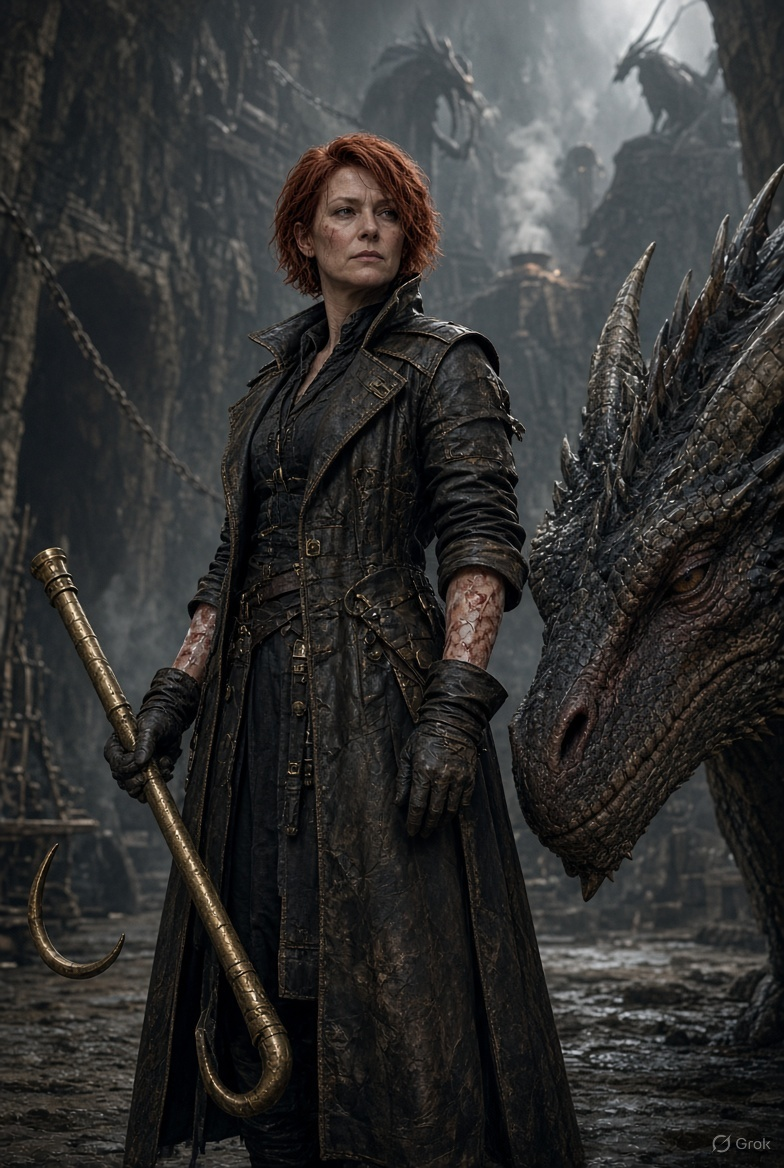
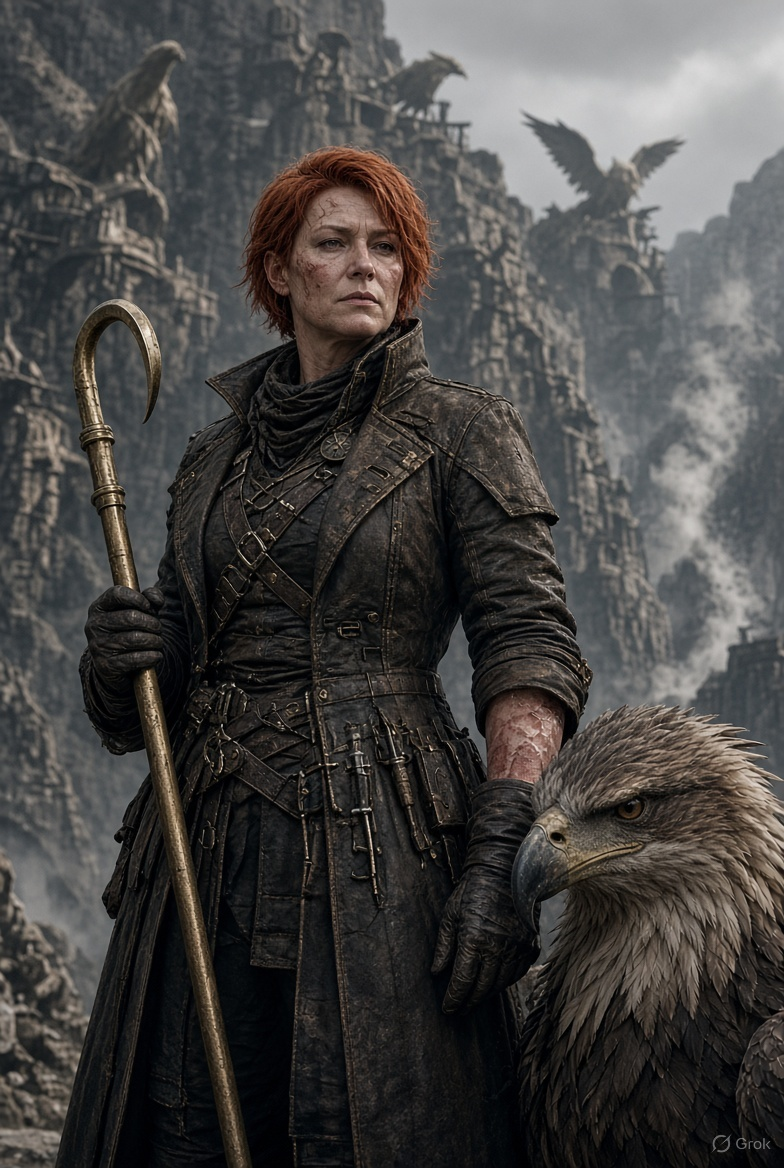
Griffins, great eagles and drakes; Zephyros the only dragon
- Stormriders are a War Griffin Corps: Skyperch Griffin Aeries, Storm Elf
  Quarters, Strike Ledge, Great Eagle Roosts, Griffin-Plate Forge; no
  Stormrider dragons except Zephyros (chapters 7–8)
- Dara Stenn's Velthor is a war griffin; Ysmay Aerie-Warden; Tessa, Lev
  Cray, Aurelia, Iskar and Skyperch Landing updated
- Drakes are wyverns, kept and trained at Vaelmark; Pyrewing an epic-tier
  dragon × wyvern hybrid (wiki and unit wiki)
- Creature anatomy spelled out in portrait and place prompts
- Portraits: Dara Stenn and Ysmay Kettlewing redone with griffins; Hrolf
  Anvilheart, Ottar Deepbar, Pip Harrowsaddle, Sten Coldhearth

diff --git a/starhaven_wiki.html b/starhaven_wiki.html
@@ -2065,7 +2065,7 @@ const CHARACTERS = [
     relationships:[{name:'Liora Drake',type:'Late Partner',note:'His late wife. Her shard survey became his life work.'},{name:'Elysia Nocturne',type:'rival'},{name:'Rayden Cale',type:'ally'}],
     tags:['Founder','Pillar of the Mind','Grand Arcanist'],
   background:'Drakari — draconic bloodline. Founded the Starhaven Athenaeum in Year 1043, then co-founded the Veilborn Arcanum in Year 1046. Discovered the 47-Void-Shard continental array pattern on Day 63 of his research, writing in his notes: \'The Pattern Is Complete. Something Is Coming.\' First mage in recorded history to invert gravity inside an S+ dungeon chamber.',
-    mount:{name:'Pyrewing',desc:'Volcanic Black Drake — 40-foot wingspan, obsidian-black scales, lava-vein markings. Elite drake, centuries old. The two communicate without spoken language.'},
+    mount:{name:'Pyrewing',desc:'Epic-tier hybrid of a fire-spitting dragon and a wyvern (drake) — 40-foot wingspan, obsidian-black scales with lava veins, blue dragonfire. Centuries old; the bond needs no words.'},
     partner:{name:'Liora Drake',relation:'Late wife (died Year 1042)',desc:'Star-cartographer and arcanist. Her unfinished shard survey became the first page of his. He founded the Athenaeum the year after she died, and its observatory dome carries her name.'},
     achievements:['Founded the Starhaven Athenaeum — primary knowledge institution of the kingdom',
       'Co-founded the Veilborn Arcanum',
@@ -2201,7 +2201,7 @@ const CHARACTERS = [
     bio:"The youngest of the Eleven in Year 1047 by significant margin. Storm-touched blue-grey eyes that shift in bright light. Wind-managed hair — perpetually windswept even indoors. Storm Rider Plate, weather-worn.",
     relationships:[{name:'Iskar Valanthe',type:'partner',note:'Dating. Lost a sky race to her and never left Highspire.'},{name:'Rayden Cale',type:'ally'},{name:'Thorin Blackroot',type:'ally'}],
     tags:['Founder','Pillar of the Sky','Stormriders'],
-  background:'Tempestian Human with storm affinity. Personally certified every dragon-rider at Highspire before the formation flew. Experienced nerve fatigue from the Five Thrones War that required 8 grounded days — the longest she has been out of the sky since taking command. Proposed the Skyhammer aerial bombardment platform in Year 1045.',
+  background:'Tempestian Human with storm affinity. Personally certified every griffin rider at Highspire before the formation flew. Experienced nerve fatigue from the Five Thrones War that required 8 grounded days — the longest she has been out of the sky since taking command. Proposed the Skyhammer aerial bombardment platform in Year 1045.',
     pet:{name:'Zephyros',desc:'Elder Storm Dragon — several hundred years old, blue-grey-white with storm-threaded scales. Wingspan beyond any living standard drake. The two have been bonded since Aurelia was 14. Zephyros indicated the Skyperch architectural requirements by standing in specific places until someone wrote them down.'},
     partner:{name:'Iskar Valanthe',relation:'Dating',desc:'A Moon Elf glaive-dancer who flew to Highspire to race the Stormriders\' best rider and lost to her by a wing-length. He has been finding reasons to stay ever since. The Stormriders have a betting pool on when she admits it is serious.'},
     achievements:['Day 30 of Five Thrones War — 12 siege engines destroyed in a single sortie, zero Starhaven fatalities',
@@ -4551,21 +4551,21 @@ const CHARACTERS = [
   {
     id:'darastenn', name:'Dara Stenn',
     image:'starhaven_chars_image/darastenn.jpg',
-    title:'The Dragon\'s Left Hand',
+    title:'Aurelia\'s Left Hand',
     category:'Commander', status:'alive',
-    age:'32', race:'Human', role:'Wing-Marshal · Stormrider Dragon Wing Sub-Commander · Aerial Coordination',
+    age:'32', race:'Human', role:'Wing-Marshal · Stormrider Griffin Wing Sub-Commander · Aerial Coordination',
     color:'#85B7EB',
-    weapons:['Stormspear — Stormrider-issue','Velthor\'s Fang — sky lance, dragon-mounted'],
+    weapons:['Stormspear — Stormrider-issue','Velthor\'s Fang — sky lance, griffin-mounted'],
     abilities:[
-      {name:'Wing Formation Command', type:'passive', desc:'Coordinates the 40-dragon formation as Aurelia\'s right-execution arm — translates her strategic vision into specific flight paths, timing, and combat sequencing for the entire dragon wing. The wing moves as one because Dara is the nervous system that carries Aurelia\'s intent.'},
-      {name:'Velthor Dive', type:'active', desc:'Drives her storm drake into a steep diving strike, sky lance leveled, then pulls the wing back into formation behind her.'},
+      {name:'Wing Formation Command', type:'passive', desc:'Coordinates the griffin wing as Aurelia\'s right-execution arm — translates her strategic vision into specific flight paths, timing, and combat sequencing for the entire griffin wing. The wing moves as one because Dara is the nervous system that carries Aurelia\'s intent.'},
+      {name:'Velthor Dive', type:'active', desc:'Drives her war griffin into a steep diving strike, sky lance leveled, then pulls the wing back into formation behind her.'},
     ],
     quote:'"The formation is Aurelia\'s mind. I just make sure every dragon reads it the same way."',
-    bio:'The only Stormrider who has never been impressed by Zephyros. Not disrespectful — she has simply ridden Velthor for five years and has a working relationship with an elder dragon of her own. She understands what it means. It does not require performance. Loyalty: The Stormriders are the most effective aerial force in the world because she makes Aurelia\'s vision executable.',
+    bio:'The only Stormrider who has never been impressed by Zephyros. Not disrespectful — she has simply ridden Velthor for five years and has a working relationship with a war griffin of her own. She understands what it means. It does not require performance. Loyalty: The Stormriders are the most effective aerial force in the world because she makes Aurelia\'s vision executable.',
     relationships:[{name:'Aurelia Vex',type:'ally',note:'Her commander — she translates Aurelia\'s vision into formation execution'},{name:'Lev Cray',type:'ally',note:'Her Storm-Captain — storm-mage flier sub-commander'}],
     tags:['Commander','Starhaven Royal & Military','Wing-Marshal'],
-    background:'Rose through the Stormriders in four years. Bonded with Velthor in Year 1047. Aurelia appointed her Wing-Marshal in Year 1049 after the Five Thrones War, specifically because of her formation execution during the Day 30 engagement. Rank: Wing-Marshal · Stormrider Dragon Wing (40 dragons) · Skyperch based.',
-    mount:'Velthor — mature storm drake (bonded Year 1047)',
+    background:'Rose through the Stormriders in four years. Bonded with Velthor in Year 1047. Aurelia appointed her Wing-Marshal in Year 1049 after the Five Thrones War, specifically because of her formation execution during the Day 30 engagement. Rank: Wing-Marshal · Stormrider Griffin Wing · Skyperch based.',
+    mount:'Velthor — a storm-grey war griffin (bonded Year 1047)',
     achievements:['Day 30 Five Thrones War formation — executed Aurelia\'s 12-engine strike perfectly','Wing-Marshal appointment Year 1049','Flamecrest Breach integration — dragon wing coordination with hawk-kin maneuver'],
   },
   {
@@ -4581,10 +4581,10 @@ const CHARACTERS = [
       {name:'Storm Affinity', type:'passive', desc:'Partial Tempestian blood — a third of Aurelia\'s range, used with precise economy. Lightning comes to him a little easier than to anyone else.'},
     ],
     quote:'"I\'m not as powerful as Aurelia. I\'ve made sure that doesn\'t matter."',
-    bio:'Partial Tempestian — has Aurelia\'s affinity at roughly one-third the scale. Spent years frustrated by the comparison. Spent the next years building the most effective mid-altitude magical interdiction force in the world. Aurelia has stopped comparing. She started asking his opinion. Loyalty: The Stormriders\'s effectiveness isn\'t just the dragons — it\'s the layer between them and the ground. That\'s his.',
-    relationships:[{name:'Aurelia Vex',type:'ally',note:'She asks his opinion — this is the recognition he wanted'},{name:'Dara Stenn',type:'ally',note:'Wing-Marshal counterpart — dragon and mage coordination'}],
+    bio:'Partial Tempestian — has Aurelia\'s affinity at roughly one-third the scale. Spent years frustrated by the comparison. Spent the next years building the most effective mid-altitude magical interdiction force in the world. Aurelia has stopped comparing. She started asking his opinion. Loyalty: The Stormriders\'s effectiveness isn\'t just the griffins — it\'s the layer between them and the ground. That\'s his.',
+    relationships:[{name:'Aurelia Vex',type:'ally',note:'She asks his opinion — this is the recognition he wanted'},{name:'Dara Stenn',type:'ally',note:'Wing-Marshal counterpart — griffin and mage coordination'}],
     tags:['Commander','Starhaven Royal & Military','Storm-Captain'],
-    background:'Partial Tempestian who built the storm-mage flier corps from concept to operational in Year 1046. Aurelia gave him the posting after he presented her a tactical diagram of the gap between dragon capability and ground force. She hired him on the spot. Rank: Storm-Captain · Stormrider Storm-Mage Fliers (160) · Skyperch based.',
+    background:'Partial Tempestian who built the storm-mage flier corps from concept to operational in Year 1046. Aurelia gave him the posting after he presented her a tactical diagram of the gap between griffin capability and ground force. She hired him on the spot. Rank: Storm-Captain · Stormrider Storm-Mage Fliers (160) · Skyperch based.',
     mount:'Gale-condor — bonded storm-capable aerial mount (not a dragon)',
     achievements:['Storm-mage flier corps — created from zero in Year 1046','Day 30 Five Thrones War — storm-mage interdiction supported Aurelia\'s dragon strike','Gale-condor mount development — non-dragon aerial capability for mage-fliers'],
   },
@@ -5622,7 +5622,7 @@ const CHARACTERS = [
     color:'#85B7EB',
     weapons:['Griffin lance','Storm-blade — mounted cavalry saber'],
     abilities:[
-      {name:'No Dragon Needed', type:'passive', desc:'Aurelia\'s Stormrider washout — failed dragon-bonding trials because no dragon chose her. Founded the Stormwing Brotherhood to prove she didn\'t need one. Aurelia respects her more than most of her own riders. They compete for altitude records. Tessa currently holds the record at 14,000 feet on griffin-back.'},
+      {name:'No Bond Needed', type:'passive', desc:'Aurelia\'s Stormrider washout — failed the griffin-bonding trials because no war griffin chose her. Founded the Stormwing Brotherhood with griffins she trained herself, to prove she did not need to be chosen. Aurelia respects her more than most of her own riders. They compete for altitude records. Tessa currently holds the record at 14,000 feet on griffin-back.'},
       {name:'Griffin Dive', type:'active', desc:'Drops Ironwing from extreme altitude onto an enemy formation, griffin lance first.'},
     ],
     quote:'"No dragon chose us. The sky did not care. Neither did we."',
@@ -6628,7 +6628,7 @@ const CHARACTERS = [
     age:'112 (looks about 25 — young for a Moon Elf)', race:'Moon Elf', role:'Solo Legend · Glaive-Dancer · Griffon Rider',
     color:'#9AB4D8',
     weapons:['Moonreaver — a twin-bladed moon-steel glaive, its blades etched with the phases of the moon that glow faintly at night','Veilmail — a mithril-thread scale coat under a midnight half-cloak'],
-    mount:{name:'Sennet',desc:'A silver-white griffon, the only mount in the realm that keeps pace with Stormrider dragons in a dive.'},
+    mount:{name:'Sennet',desc:'A silver-white griffon, the only mount in the realm that keeps pace with Zephyros in a dive.'},
     abilities:[
       {name:'Crescent Reave', type:'active', desc:'Spins Moonreaver through a full arc in a single step, cutting everything within reach in a silver crescent of light. Used to clip a wyvern\'s wing mid-dive.'},
       {name:'Moonblooded', type:'passive', desc:'Grows faster and harder to hit as night deepens. Under a full moon he has never been touched in a duel.'},
@@ -7980,20 +7980,20 @@ const CHARACTERS = [
   {
     id:'ysmaykettlewing', name:'Ysmay Kettlewing',
     image:'starhaven_chars_image/ysmaykettlewing.jpg',
-    title:'Dragon-Warden',
+    title:'Aerie-Warden',
     category:'Guild & Citizens', status:'alive',
-    age:'48', race:'Human', role:'Dragon-Warden · The Forty Stables · Skyperch',
+    age:'48', race:'Human', role:'Aerie-Warden · The Griffin Aeries & Great Eagle Roosts · Skyperch',
     color:'#7A3A2A',
     weapons:['A long brass dragon-hook','Fire-proof gloves'],
     abilities:[
-      {name:'Calm the Roost', type:'active', desc:'Walks into a roost of forty restless dragons and has them settled in minutes.'},
+      {name:'Calm the Roost', type:'active', desc:'Walks into an aerie of restless war griffins and has them settled in minutes.'},
       {name:'Tolerated', type:'passive', desc:'Zephyros tolerates her. In Skyperch that is the highest honour there is.'},
     ],
     quote:'"They are not pets. They are colleagues."',
     bio:'Strong and scarred, short red hair, burn scars on both forearms, calm grey eyes.',
     relationships:[{name:'Aurelia Vex',type:'ally',note:'Answers only to her'}],
-    tags:['Guild & Citizens','Skyperch','Dragons'],
-    background:'Keeps all forty dragons of Skyperch fed, healthy and calm in the vent-heated stables carved into the mountain.',
+    tags:['Guild & Citizens','Skyperch','Griffins'],
+    background:'Keeps the war griffins and great eagles of Skyperch fed, healthy and calm in the vent-heated aeries carved into the mountain — and is the only keeper Zephyros, the one dragon on the mountain, will let near him.',
   },
   {
     id:'pipharrowsaddle', name:'Pip Harrowsaddle',
@@ -8004,14 +8004,14 @@ const CHARACTERS = [
     color:'#6A5A3A',
     weapons:['A saddler\'s awl and a measuring cord'],
     abilities:[
-      {name:'Custom Fit', type:'active', desc:'Crawls under a dragon\'s wing to measure it and builds a harness that fits like skin.'},
+      {name:'Custom Fit', type:'active', desc:'Crawls under a griffin\'s wing to measure it and builds a harness that fits like skin.'},
       {name:'Never Slipped', type:'passive', desc:'No rider in a Harrowsaddle harness has ever fallen from a strap failure.'},
     ],
     quote:'"Hold still. Both of you."',
     bio:'Tiny, wiry, big ears, leather offcuts in his pockets, a measuring cord around his neck.',
-    relationships:[{name:'Ysmay Kettlewing',type:'ally',note:'She holds the dragon; he measures'}],
+    relationships:[{name:'Ysmay Kettlewing',type:'ally',note:'She holds the griffin; he measures'}],
     tags:['Guild & Citizens','Skyperch','Craftsman','Goblin'],
-    background:'Makes every saddle and flight harness in Skyperch, each one made to fit a single dragon.',
+    background:'Makes every saddle and flight harness in Skyperch, each one made to fit a single griffin or eagle.',
   },
   {
     id:'ionegale', name:'Ione Gale',
@@ -10313,7 +10313,7 @@ const LOCATIONS = [
     military:'Ninth Sky Corps Base · Arcane Artillery Corps · Royal Athenaeum',
     desc:'The city of magic and arcane technology — the arcane capital, a city older than the kingdom, powered by a pre-Sundering mana-channel grid that Velkan Drake restored and extended in Year 1033. Home of the Veilborn Arcanum, the largest magic academy in the known world, the Royal Athenaeum, the Arcane Artillery Corps and the Ninth Sky Corps base.',
     lore:'Vaelmark hums. Literally — at 3am on clear nights, the mana-channel grid produces a low harmonic that most residents have stopped noticing. New arrivals hear it for about a week. Then they stop. Nobody knows exactly when the transition happens. Vaelmark taught magic long before Starhaven existed; in Year 1046 its old arcane schools were restructured into the Veilborn Arcanum and opened to students from anywhere in the kingdom and its allies. Magic is not kept behind the Arcanum walls here: the street lamps are lit by apprentices with a word, the canals glow, half the shops sell something that hums, and a licence is needed to cast in public — which almost nobody remembers until the Watch reminds them. Where Forgehaven builds with steel and steam, Vaelmark builds with mana: grid-powered workshops, resonance crystals, arcane artillery and the engines of the arcane railway all start here.',
-    places:[{name:'Veilborn Arcanum',kind:'Magic academy',desc:'The largest magic academy in the known world — seven schools, four thousand students.',keeper:'Corisande Hale'},{name:'The Humming Spire',kind:'Ancient mana tower',desc:'The pre-Sundering tower at the centre of the grid — the source of the 3am hum.'},{name:'The Glass Bazaar',kind:'Arcane market',desc:'Reagents, wands, scrying glass and spell-scrolls under glass roofs.'},{name:'The Glass Familiar',kind:'Potion shop · Glass Bazaar',desc:'Potions, reagents and a glass cat he insists is alive.',keeper:'Quill Tanwick'},{name:'The Ley-Lantern Canals',kind:'Canals',desc:'Canals lit from below by mana light — the city glows blue at night.'},{name:'The Inkwell',kind:'Student café',desc:'Strong tea, long tables and arguments about spell theory until dawn.'},{name:'Grand Resonance Opera House',kind:'Opera house',desc:'Lyra Ashfen\'s stage.',keeper:'Amadeo Lark'},{name:'Liora Observatory',kind:'Observatory',desc:'Public stargazing every new moon.'},{name:'The Silver Arena',kind:'Arena · historic',desc:'An ancient circular arena beneath Vaelmark\'s highest observatory towers, wrapped in layered runic barriers. In Year 1041 Velkan Drake tested Rayden Cale here — silverfire against Temporal Frenzy, the floor melted into trenches, the arena floor collapsing beneath Rayden. Its infirmaries and drake launch platforms serve the Ninth Sky Corps.'},{name:'The Sundering Obelisk',kind:'Ancient monument',desc:'A black pre-Sundering obelisk at the centre of the mana grid, carved with a script nobody has fully read. The Grey Scholar is often seen beside it.'},{name:'The Familiars\' Infirmary',kind:'Veterinary clinic',desc:'Treats familiars, bonded beasts and the occasional drake — the only clinic where the patient sometimes casts a spell.'},{name:'The Nullstone Cells',kind:'Mage jail',desc:'Null-stone-lined cells for students and mages who break the Arcanum\'s laws — or the city\'s.'},{name:'The Rune-Forge',kind:'Arcane smithy',desc:'Where blades and armour are forged and runed in the same heat — the Veilborn Arcanum\'s Enchantment & Runecraft students do their practical year here.',keeper:'Yvaine Coldbrook'},{name:'The Drake Eyries',kind:'Drake roosts',desc:'Roost towers above the Ninth Sky Corps base where the corps\' 180 bond-paired Sky Drakes rest between flights, each drake beside its rider\'s quarters — a broken bond is the one thing the corps cannot replace.',keeper:'Sorin Vael'},{name:'Pyrewing\'s Crag',kind:'Dragon roost',desc:'A blackened crag above the city where Velkan Drake\'s drake-dragon Pyrewing sleeps. The stone beneath it is still warm in winter.'},{name:'The Skymark Pens',kind:'Breeding pens',desc:'Where Velkan\'s seven-year programme raises the Skymark wyvern-hybrids — the fastest aerial asset in the coalition.'},{name:'The Launch Platforms',kind:'Flight platforms',desc:'The drake launch platforms by the Silver Arena, where the Ninth Sky Corps formations lift off in the grey before dawn.'},{name:'Spellwright Row',kind:'Wandmakers\' street',desc:'Wandmakers, staff-carvers and focus-crystal cutters, every shop fitted to the hand of one customer at a time.',keeper:'Isembard Nettlecombe'},{name:'The Lamplighters\' Round',kind:'Tradition',desc:'Every dusk, Arcanum first-years walk the city lighting the mana lamps with a single word each — the first spell every Vaelmark child learns to watch for.'},{name:'The Skybridges',kind:'Levitating walkways',desc:'Floating walkways that hang above the Ley-Lantern Canals without pillars, held up by the grid itself.'},{name:'The Floating Market',kind:'Market barges',desc:'Market barges drifting on the glowing canals, selling charms, glow-sweets and bottled weather.'},{name:'The Weather Garden',kind:'Public garden',desc:'A park where Arcanum students practise weather-working — rain on one lawn, snow on the next, sunshine by the fountain.'},{name:'The Phantasm Theatre',kind:'Illusion theatre',desc:'Stage shows made entirely of illusion — dragons, storms and sunsets that are not really there.'},{name:'The Hall of Echoes',kind:'Practice hall',desc:'A warded public hall where anyone can practise a spell safely — failed workings just echo off the walls and fade.'},{name:'The Mana-Tide Clock',kind:'Enchanted clocktower',desc:'A clocktower that tells the hour and the strength of the grid\'s mana-tide. Spellcasters check it the way sailors check the tide.'},{name:'The Office of Arcane Licensing',kind:'Civic office',desc:'Where public spellcasting licences are issued — and, more often, renewed after the Watch has had a word.'},{name:'The Grid Works',kind:'Mana-grid engineering',desc:'The engineers who keep the pre-Sundering mana-channel grid running — every lamp, skybridge and workshop in the city draws from it.',keeper:'Velkan Drake'},{name:'The Arcane Cannon Foundry',kind:'Arcane artillery works',desc:'Where the Arcane Cannon Corps Vaelmark\'s 700 gunners and their cannons are built and trained — elemental bombardment, synchronised.',keeper:'Kai'},{name:'The Resonance Crystal Works',kind:'Crystal workshops',desc:'Cutters and tuners making the resonance crystals for the Soul Link relay network, the projection crystals, and the Opera House.'},{name:'The Skyhunter Workshop',kind:'Weapons workshop',desc:'Where the Vaelmark Athenaeum built the Skyhunter Lance launchers with the Forgehaven Master Smiths and Cyrus Engineering Guild — six exist, nine years of work.'},{name:'The Artificers\' Quarter',kind:'Artificers\' district',desc:'Workshops that build enchanted tools, grid-lamps, self-heating kettles, message-crystals and mana-driven clockwork for the whole kingdom.'},{name:'Vaelmark Arcane Station',kind:'Railway station',desc:'The arcane railway station, its locomotives charged directly from the city grid.'},{name:'The Ninth Sky Arcane Base',kind:'Military base',desc:'Headquarters of the Ninth Sky Corps — drake riders, battlemages, countermages and arcane artillery.',keeper:'Velkan Drake'}],
+    places:[{name:'Veilborn Arcanum',kind:'Magic academy',desc:'The largest magic academy in the known world — seven schools, four thousand students.',keeper:'Corisande Hale'},{name:'The Humming Spire',kind:'Ancient mana tower',desc:'The pre-Sundering tower at the centre of the grid — the source of the 3am hum.'},{name:'The Glass Bazaar',kind:'Arcane market',desc:'Reagents, wands, scrying glass and spell-scrolls under glass roofs.'},{name:'The Glass Familiar',kind:'Potion shop · Glass Bazaar',desc:'Potions, reagents and a glass cat he insists is alive.',keeper:'Quill Tanwick'},{name:'The Ley-Lantern Canals',kind:'Canals',desc:'Canals lit from below by mana light — the city glows blue at night.'},{name:'The Inkwell',kind:'Student café',desc:'Strong tea, long tables and arguments about spell theory until dawn.'},{name:'Grand Resonance Opera House',kind:'Opera house',desc:'Lyra Ashfen\'s stage.',keeper:'Amadeo Lark'},{name:'Liora Observatory',kind:'Observatory',desc:'Public stargazing every new moon.'},{name:'The Silver Arena',kind:'Arena · historic',desc:'An ancient circular arena beneath Vaelmark\'s highest observatory towers, wrapped in layered runic barriers. In Year 1041 Velkan Drake tested Rayden Cale here — silverfire against Temporal Frenzy, the floor melted into trenches, the arena floor collapsing beneath Rayden. Its infirmaries and drake launch platforms serve the Ninth Sky Corps.'},{name:'The Sundering Obelisk',kind:'Ancient monument',desc:'A black pre-Sundering obelisk at the centre of the mana grid, carved with a script nobody has fully read. The Grey Scholar is often seen beside it.'},{name:'The Familiars\' Infirmary',kind:'Veterinary clinic',desc:'Treats familiars, bonded beasts and the occasional drake — the only clinic where the patient sometimes casts a spell.'},{name:'The Nullstone Cells',kind:'Mage jail',desc:'Null-stone-lined cells for students and mages who break the Arcanum\'s laws — or the city\'s.'},{name:'The Rune-Forge',kind:'Arcane smithy',desc:'Where blades and armour are forged and runed in the same heat — the Veilborn Arcanum\'s Enchantment & Runecraft students do their practical year here.',keeper:'Yvaine Coldbrook'},{name:'The Drake Eyries',kind:'Drake roosts',desc:'Vaelmark has kept and trained drakes since long before the kingdom — raised from the egg, bonded young. Drakes are wyverns, basically — two legs, wings for forelimbs, no fire — smaller, shorter-lived and trainable. Not dragons. Roost towers above the Ninth Sky Corps base where the corps\' 180 bond-paired Sky Drakes rest between flights, each drake beside its rider\'s quarters — a broken bond is the one thing the corps cannot replace.',keeper:'Sorin Vael'},{name:'Pyrewing\'s Crag',kind:'Hybrid roost',desc:'A blackened crag above the city where Velkan Drake\'s Pyrewing sleeps — no ordinary drake but an epic-tier hybrid of fire-spitting dragon and wyvern. The stone beneath it is still warm in winter.'},{name:'The Skymark Pens',kind:'Breeding pens',desc:'Where Velkan\'s seven-year programme raises the Skymark wyvern-hybrids — the fastest aerial asset in the coalition.'},{name:'The Launch Platforms',kind:'Flight platforms',desc:'The drake launch platforms by the Silver Arena, where the Ninth Sky Corps formations lift off in the grey before dawn.'},{name:'Spellwright Row',kind:'Wandmakers\' street',desc:'Wandmakers, staff-carvers and focus-crystal cutters, every shop fitted to the hand of one customer at a time.',keeper:'Isembard Nettlecombe'},{name:'The Lamplighters\' Round',kind:'Tradition',desc:'Every dusk, Arcanum first-years walk the city lighting the mana lamps with a single word each — the first spell every Vaelmark child learns to watch for.'},{name:'The Skybridges',kind:'Levitating walkways',desc:'Floating walkways that hang above the Ley-Lantern Canals without pillars, held up by the grid itself.'},{name:'The Floating Market',kind:'Market barges',desc:'Market barges drifting on the glowing canals, selling charms, glow-sweets and bottled weather.'},{name:'The Weather Garden',kind:'Public garden',desc:'A park where Arcanum students practise weather-working — rain on one lawn, snow on the next, sunshine by the fountain.'},{name:'The Phantasm Theatre',kind:'Illusion theatre',desc:'Stage shows made entirely of illusion — dragons, storms and sunsets that are not really there.'},{name:'The Hall of Echoes',kind:'Practice hall',desc:'A warded public hall where anyone can practise a spell safely — failed workings just echo off the walls and fade.'},{name:'The Mana-Tide Clock',kind:'Enchanted clocktower',desc:'A clocktower that tells the hour and the strength of the grid\'s mana-tide. Spellcasters check it the way sailors check the tide.'},{name:'The Office of Arcane Licensing',kind:'Civic office',desc:'Where public spellcasting licences are issued — and, more often, renewed after the Watch has had a word.'},{name:'The Grid Works',kind:'Mana-grid engineering',desc:'The engineers who keep the pre-Sundering mana-channel grid running — every lamp, skybridge and workshop in the city draws from it.',keeper:'Velkan Drake'},{name:'The Arcane Cannon Foundry',kind:'Arcane artillery works',desc:'Where the Arcane Cannon Corps Vaelmark\'s 700 gunners and their cannons are built and trained — elemental bombardment, synchronised.',keeper:'Kai'},{name:'The Resonance Crystal Works',kind:'Crystal workshops',desc:'Cutters and tuners making the resonance crystals for the Soul Link relay network, the projection crystals, and the Opera House.'},{name:'The Skyhunter Workshop',kind:'Weapons workshop',desc:'Where the Vaelmark Athenaeum built the Skyhunter Lance launchers with the Forgehaven Master Smiths and Cyrus Engineering Guild — six exist, nine years of work.'},{name:'The Artificers\' Quarter',kind:'Artificers\' district',desc:'Workshops that build enchanted tools, grid-lamps, self-heating kettles, message-crystals and mana-driven clockwork for the whole kingdom.'},{name:'Vaelmark Arcane Station',kind:'Railway station',desc:'The arcane railway station, its locomotives charged directly from the city grid.'},{name:'The Ninth Sky Arcane Base',kind:'Military base',desc:'Headquarters of the Ninth Sky Corps — drake riders, battlemages, countermages and arcane artillery.',keeper:'Velkan Drake'}],
     tags:['Arcane City','Athenaeum','Ninth Sky Corps','Mana Grid'],
   transport:{riftGates:3,trainStation:'Vaelmark Arcane Station'},
   },
@@ -10484,10 +10484,10 @@ const LOCATIONS = [
     type:'outpost', region:'Mountain Perch — Western Ranges',
     population:'1,400 (Stormrider corps)', founded:'Year 1041',
     governor:'Aurelia Vex',
-    military:'Stormriders HQ · 40 Dragon Stables · Storm-Mage Barracks',
+    military:'Stormriders HQ · War Griffin Aeries · Great Eagle Roosts · Storm-Mage Barracks',
     desc:'Built specifically to meet Zephyros\'s architectural requirements — the landing platforms are sized for an elder dragon several hundred years old, 40+ wingspan. Aurelia designed the specs. Zephyros indicated his preferences by standing in specific places until someone wrote them down.',
     lore:'Skyperch does not look like a military installation. It looks like something that was grown into the mountain. Aurelia will say this is because it was. The mountain had to be convinced. She will not elaborate on what \'convinced\' means in this context. The dragon riders all understand. The ground forces who visit do not ask twice.',
-    places:[{name:'The Updraft',kind:'Riders\' tavern',desc:'Spiced cider on an open cliff ledge, and the wall of riders who did not come back.',keeper:'Augustin "Gus" Fellwind'},{name:'The Forty Stables',kind:'Dragon roosts',desc:'Roosts carved into the mountain and heated by its vents.',keeper:'Ysmay Kettlewing'},{name:'Harrow\'s Harness Loft',kind:'Harness-maker',desc:'Every saddle made to fit a single dragon.',keeper:'Pip Harrowsaddle'},{name:'The Storm-Mage Barracks',kind:'Weather-mage school',desc:'Weather-mages trained to fly with the dragon wings.',keeper:'Ione Gale'},{name:'Zephyros\'s Ledge',kind:'Summit platform',desc:'The highest platform. Only Zephyros and Aurelia go up.'},{name:'The Wing Infirmary',kind:'Veterinary clinic',desc:'Dragon and griffin medicine beside the Forty Stables.',keeper:'Ysmay Kettlewing'},{name:'The Dragon-Plate Forge',kind:'Smithy',desc:'Light dragon barding and flight armour for the Stormriders — every piece fitted with Pip Harrowsaddle\'s harness.'}],
+    places:[{name:'The Griffin Aeries',kind:'Griffin roosts',desc:'Cliff-face aeries for the Stormriders\' War Griffin Riders — the heart of the corps. Each Storm Elf rider is bonded to a single griffin, and rider and griffin sleep within sight of each other. The griffins are bred below at the Eyrie Crags Rookery.',keeper:'Aurelia Vex'},{name:'The Storm Elf Quarters',kind:'Riders\' quarters',desc:'Where the Storm Elf griffin riders live, built into the cliff beside the aeries so a rider can be mounted in under a minute.'},{name:'The Strike Ledge',kind:'Launch ledge',desc:'The ledge the griffin wings dive from for pre-contact aerial strikes — a straight drop of a thousand feet before the wings open.'},{name:'The Updraft',kind:'Riders\' tavern',desc:'Spiced cider on an open cliff ledge, and the wall of riders who did not come back.',keeper:'Augustin "Gus" Fellwind'},{name:'The Great Eagle Roosts',kind:'Eagle roosts',desc:'Vent-heated roosts carved into the mountain for the great war eagles that scout ahead of the griffin wings.',keeper:'Ysmay Kettlewing'},{name:'Harrow\'s Harness Loft',kind:'Harness-maker',desc:'Every saddle made to fit a single griffin or eagle.',keeper:'Pip Harrowsaddle'},{name:'The Storm-Mage Barracks',kind:'Weather-mage school',desc:'Weather-mages trained to fly with the dragon wings.',keeper:'Ione Gale'},{name:'Zephyros\'s Ledge',kind:'Summit platform',desc:'The highest platform. Only Zephyros and Aurelia go up.'},{name:'The Wing Infirmary',kind:'Veterinary clinic',desc:'Griffin and eagle medicine beside the aeries.',keeper:'Ysmay Kettlewing'},{name:'The Griffin-Plate Forge',kind:'Smithy',desc:'Light griffin barding and flight armour for the Stormriders — every piece fitted with Pip Harrowsaddle\'s harness.'}],
     tags:['Stormriders','Dragon Base','Aurelia Vex','Zephyros','Mountain'],
   transport:{riftGates:1,trainStation:'Skyperch Aerial Halt'},
   },
@@ -10558,10 +10558,10 @@ const LOCATIONS = [
     type:'district', region:'Starhold — Eastern Cliff Plateau',
     population:'~9,000 (riders + ground crew)', founded:'Year 1041',
     governor:'Aurelia Vex · Tessa Skarne (Stormwing Brotherhood)',
-    military:'Stormriders (1,200 + 40 dragons) · Stormwing Brotherhood (800 + 120 griffins)',
-    desc:'The aerial operations district built into a cliff-face plateau east of Starhold — permanent base of the Stormriders and the Stormwing Brotherhood. Dragon roost halls, griffin landing pads, and the Altitude Record Board.',
+    military:'Stormriders (1,200 riders + war griffins) · Stormwing Brotherhood (800 + 120 griffins)',
+    desc:'The aerial operations district built into a cliff-face plateau east of Starhold — permanent base of the Stormriders and the Stormwing Brotherhood. Griffin roost halls, eagle perches, and the Altitude Record Board.',
     lore:'The altitude record board lists Tessa Skarne at 14,000 feet on griffin-back. Aurelia Vex\'s name is directly below it. The gap between the numbers is 200 feet. Neither of them discusses this. Both of them look at it every morning.',
-    places:[{name:'The Altitude Record Board',kind:'Record board',desc:'Tessa Skarne at 14,000 feet; Aurelia Vex two hundred feet below. Both look at it every morning.'},{name:'The Dragon Roost Halls',kind:'Roosts',desc:'Roost halls for the Stormriders\' dragons on the cliff plateau.'},{name:'The Griffin Pads',kind:'Landing pads',desc:'Landing pads for the Stormwing Brotherhood\'s 120 griffins.'},{name:'Stormwing Hall',kind:'Brotherhood hall',desc:'The Stormwing Brotherhood\'s hall and mess.',keeper:'Tessa Skarne'}],
+    places:[{name:'The Altitude Record Board',kind:'Record board',desc:'Tessa Skarne at 14,000 feet; Aurelia Vex two hundred feet below. Both look at it every morning.'},{name:'The Griffin Roost Halls',kind:'Roosts',desc:'Roost halls for the Stormriders\' war griffins on the cliff plateau.'},{name:'The Griffin Pads',kind:'Landing pads',desc:'Landing pads for the Stormwing Brotherhood\'s 120 griffins.'},{name:'Stormwing Hall',kind:'Brotherhood hall',desc:'The Stormwing Brotherhood\'s hall and mess.',keeper:'Tessa Skarne'}],
     tags:['Aerial','Stormriders','Aurelia Vex','Griffins','Skyperch Landing'],
   transport:{riftGates:1,trainStation:'Skyperch Aerial Halt (shared)'},
   },
@@ -10812,9 +10812,9 @@ const LOCATIONS = [
     type:'landmark', region:'Skyperch — Western Ranges',
     population:'Season of 8 races', founded:'Year 1044',
     governor:'Stormriders & Stormwing Brotherhood',
-    desc:'Griffin and dragon racing around the peaks of Skyperch. The rivalry everyone bets on: Tessa Skarne against Aurelia Vex.',
+    desc:'Griffin and great-eagle racing around the peaks of Skyperch. The rivalry everyone bets on: Tessa Skarne against Aurelia Vex.',
     lore:'The finish line is Zephyros\'s Ledge. Zephyros does not race. He watches, and riders swear he has favourites.',
-    tags:['Racing','Dragons','Griffins','Aurelia Vex','Tessa Skarne'],
+    tags:['Racing','Griffins','Great Eagles','Aurelia Vex','Tessa Skarne'],
   },
   {
     id:'ironmane-derby', name:'The Ironmane Derby',

diff --git a/starhaven-unit-wiki.html b/starhaven-unit-wiki.html
@@ -14518,7 +14518,7 @@
                 "data-src": "own",
                 "name": "Pyrewing",
                 "branch": "Animals",
-                "className": "Legendary Drake-Dragon Hybrid · Velkan Drake's Bond Mount",
+                "className": "Epic-Tier Dragon × Wyvern Hybrid · Velkan Drake's Bond Mount",
                 "subtitle": "· Ninth Sky Corps · 40ft Wingspan · Blue Fire · Centuries Old · Wordless Communication",
                 "srcPill": "🏰 Own",
                 "armorBadge": "Legendary",
@@ -14528,7 +14528,7 @@
                 "total": "1",
                 "image": "unitImages/pyrewing.png",
                 "imageAlt": "Pyrewing",
-                "notes": "Velkan Drake's personal mount and bond partner. Legendary drake-dragon hybrid — 40-foot wingspan, obsidian-black scales with lava-vein markings that pulse faintly in low light. Centuries old. The two communicate without spoken language — not telepathy in the conventional sense, but a bond sufficiently deep that verbal direction is not required or used. Velkan has not been asked to explain how this works. He has given an answer three times and each answer was slightly different in phrasing and identical in content: the drake knows.\n\nPyrewing is categorically distinct from every other mount in the Ninth Sky Corps. The corps' 180 bond-mounts are drakes — 18–24ft, smaller, optimized for strike-and-evade at altitude. Pyrewing is not comparable to them. The size differential alone means Pyrewing cannot be used in the same formation patterns as the corps' standard drakes — it would displace them. The distinction is not one of degree. It is one of category.\n\nThe capability that distinguishes Pyrewing beyond all other aerial assets in the coalition, including the corps' own drakes: blue fire. Pyrewing can emit blue dragonfire — a heat signature beyond what any forge or arcane incendiary in the coalition's arsenal produces. No other mount in the Ninth Sky Corps has this capability. No other mount in the coalition has this capability. When Pyrewing commits to a ground strike, the corps' standard drake riders hold position above the target. They have learned, through documented field experience, why this is the correct decision.\n\nPyrewing predates Starhaven. Predates most of what Starhaven was built on. The hybrid nature — drake frame, dragon bloodline — is not something Velkan Drake has explained, and the Vaelmark Athenaeum has classified the physiological assessment.",
+                "notes": "Velkan Drake's personal mount and bond partner. Epic-tier hybrid of a fire-spitting dragon and a wyvern (drake) — 40-foot wingspan, obsidian-black scales with lava-vein markings that pulse faintly in low light. Centuries old. The two communicate without spoken language — not telepathy in the conventional sense, but a bond sufficiently deep that verbal direction is not required or used. Velkan has not been asked to explain how this works. He has given an answer three times and each answer was slightly different in phrasing and identical in content: the drake knows.\n\nPyrewing is categorically distinct from every other mount in the Ninth Sky Corps. The corps' 180 bond-mounts are drakes — 18–24ft, smaller, optimized for strike-and-evade at altitude. Pyrewing is not comparable to them. The size differential alone means Pyrewing cannot be used in the same formation patterns as the corps' standard drakes — it would displace them. The distinction is not one of degree. It is one of category.\n\nThe capability that distinguishes Pyrewing beyond all other aerial assets in the coalition, including the corps' own drakes: blue fire. Pyrewing can emit blue dragonfire — a heat signature beyond what any forge or arcane incendiary in the coalition's arsenal produces. No other mount in the Ninth Sky Corps has this capability. No other mount in the coalition has this capability. When Pyrewing commits to a ground strike, the corps' standard drake riders hold position above the target. They have learned, through documented field experience, why this is the correct decision.\n\nPyrewing predates Starhaven. Predates most of what Starhaven was built on. The hybrid nature — drake frame, dragon bloodline — is not something Velkan Drake has explained, and the Vaelmark Athenaeum has classified the physiological assessment.",
                 "armor": [
                   {
                     "slot": "Natural",
@@ -15128,7 +15128,7 @@
                 "data-src": "own",
                 "name": "Sky Drake",
                 "branch": "Animals",
-                "className": "Drake · Aerial Strike Mount · Bond-Paired",
+                "className": "Drake (Wyvern) · Aerial Strike Mount · Bond-Paired",
                 "subtitle": "· Ninth Sky Corps · 18–24ft Wingspan · 180 Bond-Pairs",
                 "srcPill": "🏰 Own",
                 "armorBadge": "Light",
@@ -15138,7 +15138,7 @@
                 "total": "180 active / 216 total (bond-paired 1:1 with Drake Riders)",
                 "image": "unitImages/sky-drake.png",
                 "imageAlt": "Sky Drake",
-                "notes": "The standard aerial mounts of the Ninth Sky Corps — 18–24ft wingspan drakes, bond-paired to their riders from selection. Each bond is operationally inseparable. A broken bond grounds the drake from combat operations pending a new bond assessment at Vaelmark, which takes a minimum of eight months before Sorin Vael considers the new pair combat-ready.\n\nThe distinction that matters most when describing the corps' standard mounts: these are drakes — not Pyrewing. Velkan Drake's bond mount is a 40-foot legendary drake-dragon hybrid capable of blue dragonfire emission. The corps' 180 bond-paired mounts are drakes at 18–24 feet — much smaller, no fire emission, no dragon bloodline. They are fast, bond-capable aerial strike assets, which is exactly what they were selected and trained to be. The comparison to Pyrewing is not unfavorable. It is simply not the same category.\n\nThe drake's primary protection is speed and evasion, not armor. The rune-harness channels disperse incoming arcane fire at altitude, but the tactical answer to ranged fire is to not be there. 180 active riders, each with full knowledge of their specific drake's capabilities and limitations — in an aerial strike element, rider awareness of the drake's behavior under stress is the difference between a successful maneuver and a broken bond.",
+                "notes": "The standard aerial mounts of the Ninth Sky Corps — 18–24ft wingspan drakes (wyverns, basically: two legs, wings for forelimbs, no fire), raised and trained at Vaelmark since long before the kingdom, bond-paired to their riders from selection. Each bond is operationally inseparable. A broken bond grounds the drake from combat operations pending a new bond assessment at Vaelmark, which takes a minimum of eight months before Sorin Vael considers the new pair combat-ready.\n\nThe distinction that matters most when describing the corps' standard mounts: these are drakes — not Pyrewing. Velkan Drake's bond mount is a 40-foot epic-tier dragon × wyvern hybrid capable of blue dragonfire emission. The corps' 180 bond-paired mounts are drakes at 18–24 feet — much smaller, no fire emission, no dragon bloodline. They are fast, bond-capable aerial strike assets, which is exactly what they were selected and trained to be. The comparison to Pyrewing is not unfavorable. It is simply not the same category.\n\nThe drake's primary protection is speed and evasion, not armor. The rune-harness channels disperse incoming arcane fire at altitude, but the tactical answer to ranged fire is to not be there. 180 active riders, each with full knowledge of their specific drake's capabilities and limitations — in an aerial strike element, rider awareness of the drake's behavior under stress is the difference between a successful maneuver and a broken bond.",
                 "armor": [
                   {
                     "slot": "Harness",
